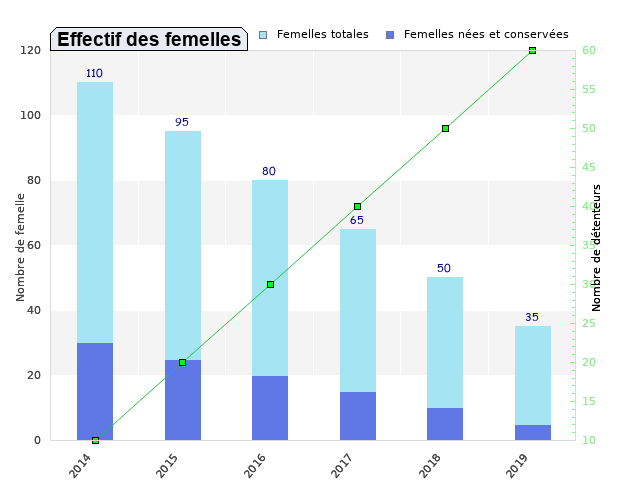
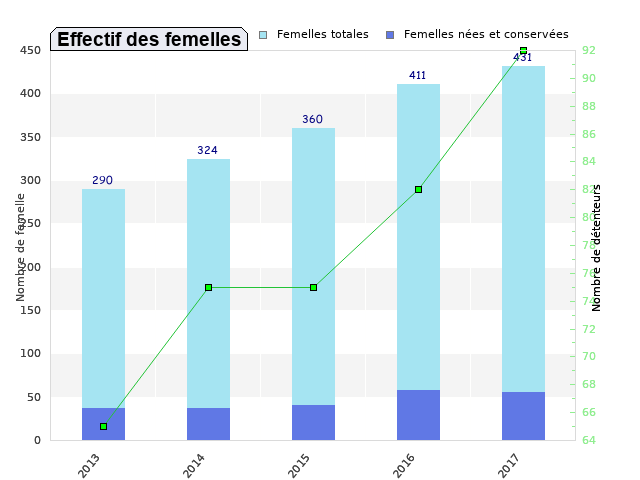
ndjdksjn

diff --git a/graph/HistoEvoFem.php b/graph/HistoEvoFem.php
@@ -8,10 +8,25 @@ require_once ('./jpgraph-4.2.6/src/jpgraph_bar.php');
 require_once ('./jpgraph-4.2.6/src/jpgraph_line.php');
 
 //Les datas pour l'exemple
-$datay2=array(10,20,30,40,50,60);
-$datay1=array(30,25,20,15,10,5);
-$datay3=array(80,70,60,50,40,30);
-$années=array("2014","2015","2016","2017","2018","2019");
+$effectif = $_SESSION["effectif"];
+$annees = $_SESSION["annee"];
+
+unset($annees[0]); //pour retirer la première valeur du tableau
+$annees = array_values($annees);
+
+$datay2 = $effectif[4];//nb d'eleveurs détenteurs
+unset($datay2[0]); //pour retirer la première valeur du tableau
+$datay2 = array_values($datay2);
+
+$datay1 = $effectif[2];//femelles nées et conservées
+unset($datay1[0]);
+$datay1 = array_values($datay1);
+
+$datay3 = $effectif[0];//femelles totales
+unset($datay3[0]);
+$datay3 = array_values($datay3);
+
+//$annees=array("2014","2015","2016","2017","2018","2019"); //années
 
 /*
 $datay1=$_GET["-_Insérer les vaches nées et conservées en ordonnée issu des requêtes_-"];
@@ -46,7 +61,7 @@ $graph->ygrid->SetColor('gray');
 $graph->xgrid->Show();
 $graph->xgrid->SetLineStyle('dashed');
 $graph->xgrid->SetColor('gray');
-$graph->xaxis->setTickLabels($années);
+$graph->xaxis->setTickLabels($annees);
 $graph->xaxis->setLabelAngle(50);
 
 // *******************************
